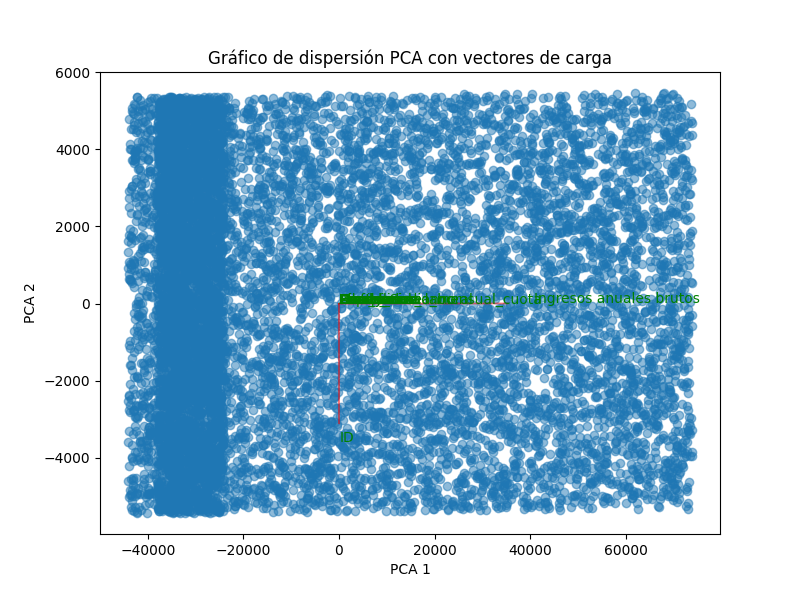
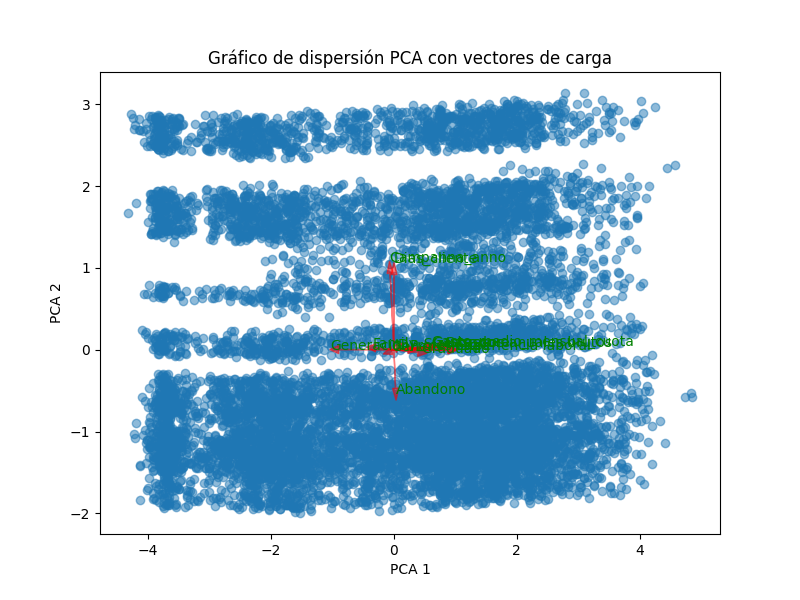
cositas

diff --git a/modelo.py b/modelo.py
@@ -7,15 +7,18 @@ import seaborn as sns
 from sklearn.preprocessing import StandardScaler
 #ignorar warnings
 import warnings
-from analisis_datos import df_scaled
+from analisis_datos import df
 warnings.filterwarnings('ignore')
 
+
+
+
 # Identificar variables binarias y continuas
-numerical = df_scaled.select_dtypes(include=[np.number]).columns.tolist()
+numerical = df.select_dtypes(include=[np.number]).columns.tolist()
 binarias = []
 continuas = []
 for col in numerical:
-    unique_values = df_scaled[col].unique()
+    unique_values = df[col].unique()
     if sorted(unique_values) == [0, 1]:
         binarias.append(col)
     else:
@@ -25,7 +28,7 @@ print("Variables binarias:", binarias)
 print("Variables continuas:", continuas)
 
 # Cogemos solo las variables continuas
-df_scaled_continuas = df_scaled[continuas]
+df_scaled_continuas = df[continuas]
 
 # 3. Calcula WCSS para diferentes valores de k
 wcss = []

diff --git a/analisis_datos.py b/analisis_datos.py
@@ -12,11 +12,9 @@ df = pd.read_csv('Client_segment_limpio.csv', sep=';', encoding='latin1')
 print(df.head())
 
 
-'''# 2. Escala los datos
+# 2. Escala los datos
 scaler = StandardScaler()
-df_scaled = scaler.fit_transform(df)'''
-
-df_scaled = df
+df_scaled = scaler.fit_transform(df)
 
 # 3. Los convertimos a dataframe
 df_scaled = pd.DataFrame(df_scaled, columns=df.columns)
@@ -115,6 +113,6 @@ plt.show()'''
 if __name__ == '__main__':
     graficar_pca(df_pca)
     graficar_cargar_general(df_pca, cargas_df)
-    graficar_cargas(df, cargas_df, 1)
-    graficar_cargas(df, cargas_df, 2)
+    graficar_cargas(df_scaled, cargas_df, 1)
+    graficar_cargas(df_scaled, cargas_df, 2)
 
